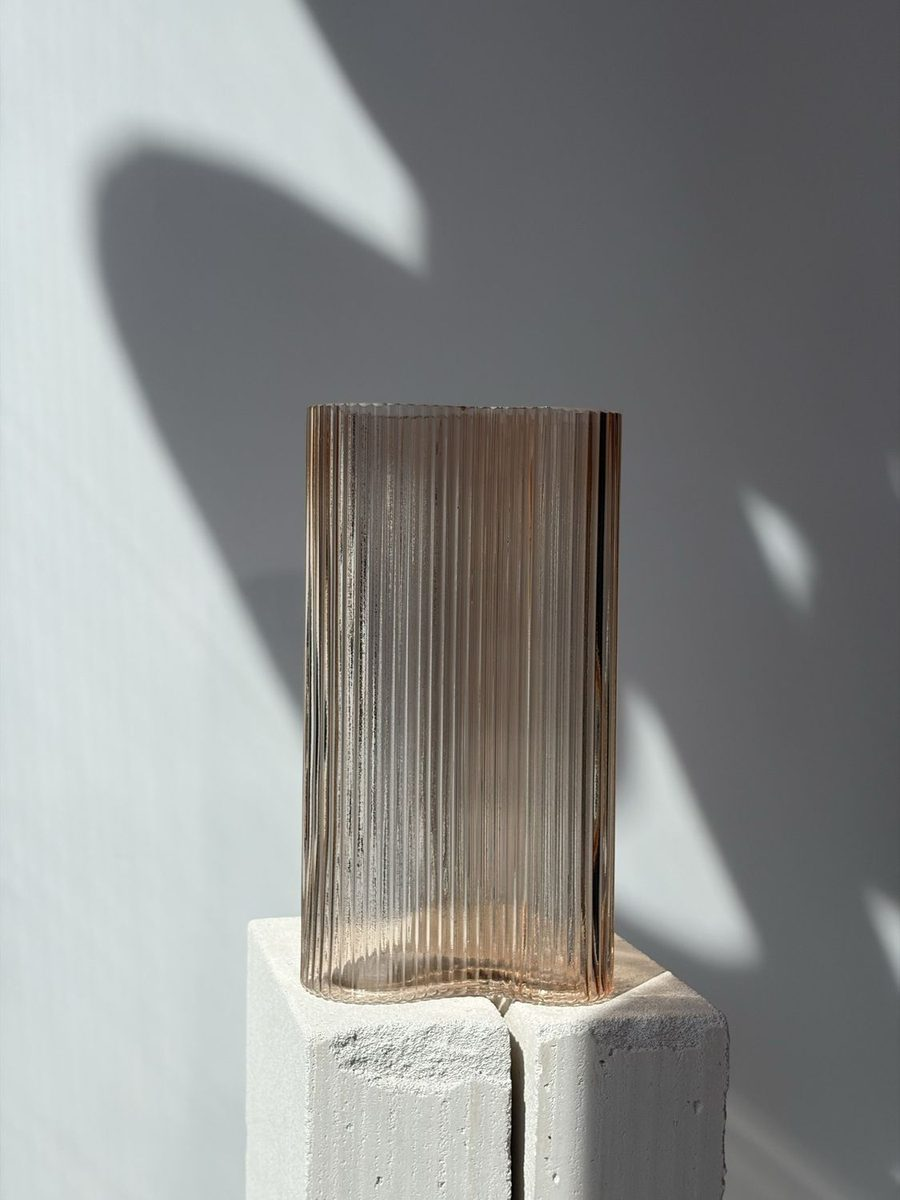
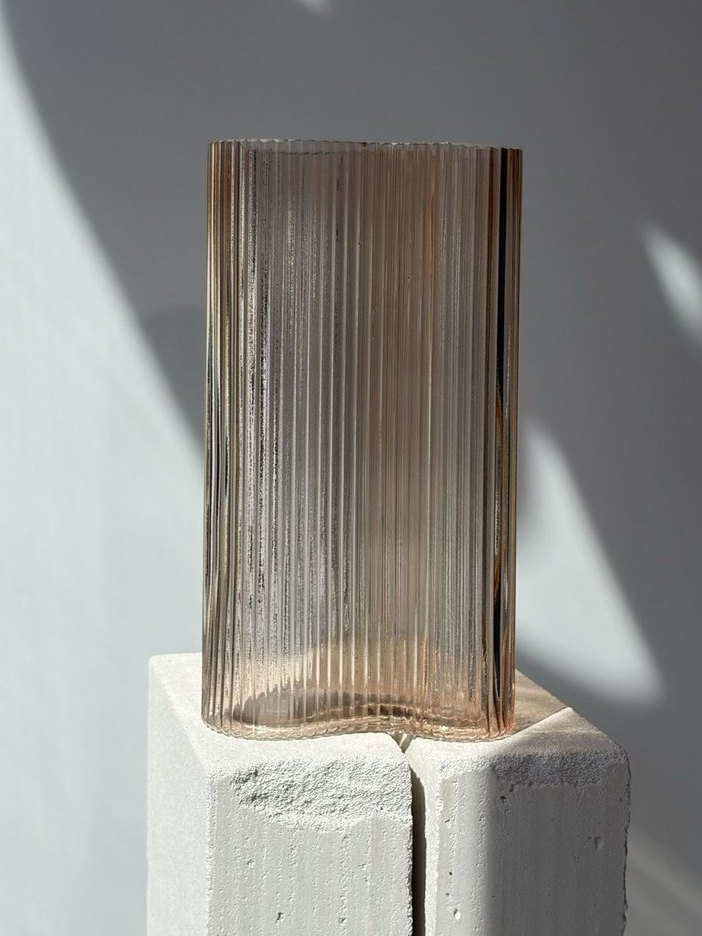
Вазы ближе, шары вертикально, игрушкам вернулись лапы
«Алый вечер» — оба кадра чуть отодвинула: края композиции и ленты
снова целиком в кадре, я перестаралась в прошлый раз.

Вазы: все девять сняты ближе — ваза с подставкой занимают кадр,
а не тонут в сером фоне.

«Детский день рождения» и «Розовый кварц» были горизонтальными
среди вертикальных — приведены к 3:4.

В корзине блок «Добавьте к букету» показывал фотографии в квадрате,
хотя все снимки 3:4 — поэтому капибаре и мишке срезало лапы, а вазам
подставку. Плитка теперь 3:4, как сами фотографии.

diff --git a/korzina.html b/korzina.html
@@ -646,7 +646,7 @@ h1,h2,h3,.disp{font-family:var(--display); font-weight:400; letter-spacing:-.005
   background:var(--white); border-radius:16px; overflow:hidden;
   display:flex; flex-direction:column;
 }
-.addon-item .pic{aspect-ratio:1/1; overflow:hidden; background:var(--cream);}
+.addon-item .pic{aspect-ratio:3/4; overflow:hidden; background:var(--cream);} /* как у самих фото — иначе игрушкам срезает лапы */
 .addon-item .pic img{width:100%; height:100%; object-fit:cover;}
 .addon-item .in{padding:10px 11px 11px; display:flex; flex-direction:column; gap:3px; flex:1;}
 .addon-item h3{font-size:14.5px; margin:0; line-height:1.25;}
